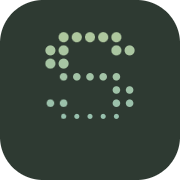
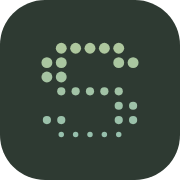
Centre the S in its own box, everywhere it stands alone (#136)
The mark is drawn on a 9-row grid whose bottom two rows are blank; they
exist so the S shares a grid with the wordmark, whose lowercase needs the
rows under the baseline for descenders. Alone, those rows are empty box,
and everything that centres the box -- the app icon, the top bar's plate,
the white discs on the heroes -- had the S riding eleven pixels high on a
hundred and twenty-eight, with the downward fade of the dots pulling the
weight higher still. It looked off-centre because it was.

SageMark and sageDots now measure the drawn ink and centre it in the box
whenever the S stands alone; the wordmark keeps its box untouched, and the
sign-in arrival's streak geometry follows the shifted dots so the two stay
one thing. The static icons in public are regenerated to match: both app
icon SVGs, the favicon and bare-mark SVGs, and the four PNGs rendered from
them.

Claude-Session: https://claude.ai/code/session_01WCb22Cxr3GgkEa8u4GWumF

diff --git a/src/SageMark.jsx b/src/SageMark.jsx
@@ -79,6 +79,17 @@ export function sageDots({ word = false, rise = true, fill, base = SAGE_BASE, ca
       });
     }
   }
+  /* The S shares its 9-row grid with the wordmark, whose lowercase needs the
+     rows under the baseline for descenders. Alone, those rows are empty box,
+     and centring the box left the S riding high on every plate it sits on --
+     the app icon read as off-centre because it was. The ink is measured and
+     re-centred here; the box stays the wordmark's box. */
+  if (!word && out.length) {
+    const top = Math.min(...out.map((d) => d.y - d.r));
+    const bot = Math.max(...out.map((d) => d.y + d.r));
+    const yOff = (rows * PITCH - top - bot) / 2;
+    for (const d of out) d.y += yOff;
+  }
   out.sort((a, b) => a.x - b.x || a.y - b.y);
   return { dots: out, w: cols * PITCH, h: rows * PITCH };
 }
@@ -138,16 +149,26 @@ export default function SageMark({
      of it somewhere else. That only works if the geometry travels with the dots. */
   const midX = (cols * PITCH) / 2, midY = (rows * PITCH) / 2;
 
+  /* Same ink-centring as sageDots, so the drawn mark and the geometry the
+     sign-in arrival flies its streaks along stay one thing. */
+  const rOf = (r) => ((riseOn ? WEIGHT[r] : 1) * CELL * fillOn) / 2;
+  const yOff = word || !cells.length ? 0 : (() => {
+    const ys = cells.map(({ r }) => (r + 0.5) * PITCH);
+    const top = Math.min(...cells.map(({ r }, i) => ys[i] - rOf(r)));
+    const bot = Math.max(...cells.map(({ r }, i) => ys[i] + rOf(r)));
+    return (rows * PITCH - top - bot) / 2;
+  })();
+
   const dots = cells.map(({ r, c }) => (
     <circle
       key={r + "-" + c}
       cx={(c + 0.5) * PITCH + padPx}
-      cy={(r + 0.5) * PITCH + padPx}
+      cy={(r + 0.5) * PITCH + padPx + yOff}
       r={((riseOn ? WEIGHT[r] : 1) * CELL * fillOn) / 2}
       fill={flat || mix(base, cap, rows > 1 ? 1 - r / (rows - 1) : 0)}
       data-dot={r + "-" + c}
       style={(() => {
-        const dx = (c + 0.5) * PITCH - midX, dy = (r + 0.5) * PITCH - midY;
+        const dx = (c + 0.5) * PITCH - midX, dy = (r + 0.5) * PITCH + yOff - midY;
         return {
           /* Drawn but transparent rather than absent, so the mark never reflows
              as it fills and the streaks later have every dot to start from. In
